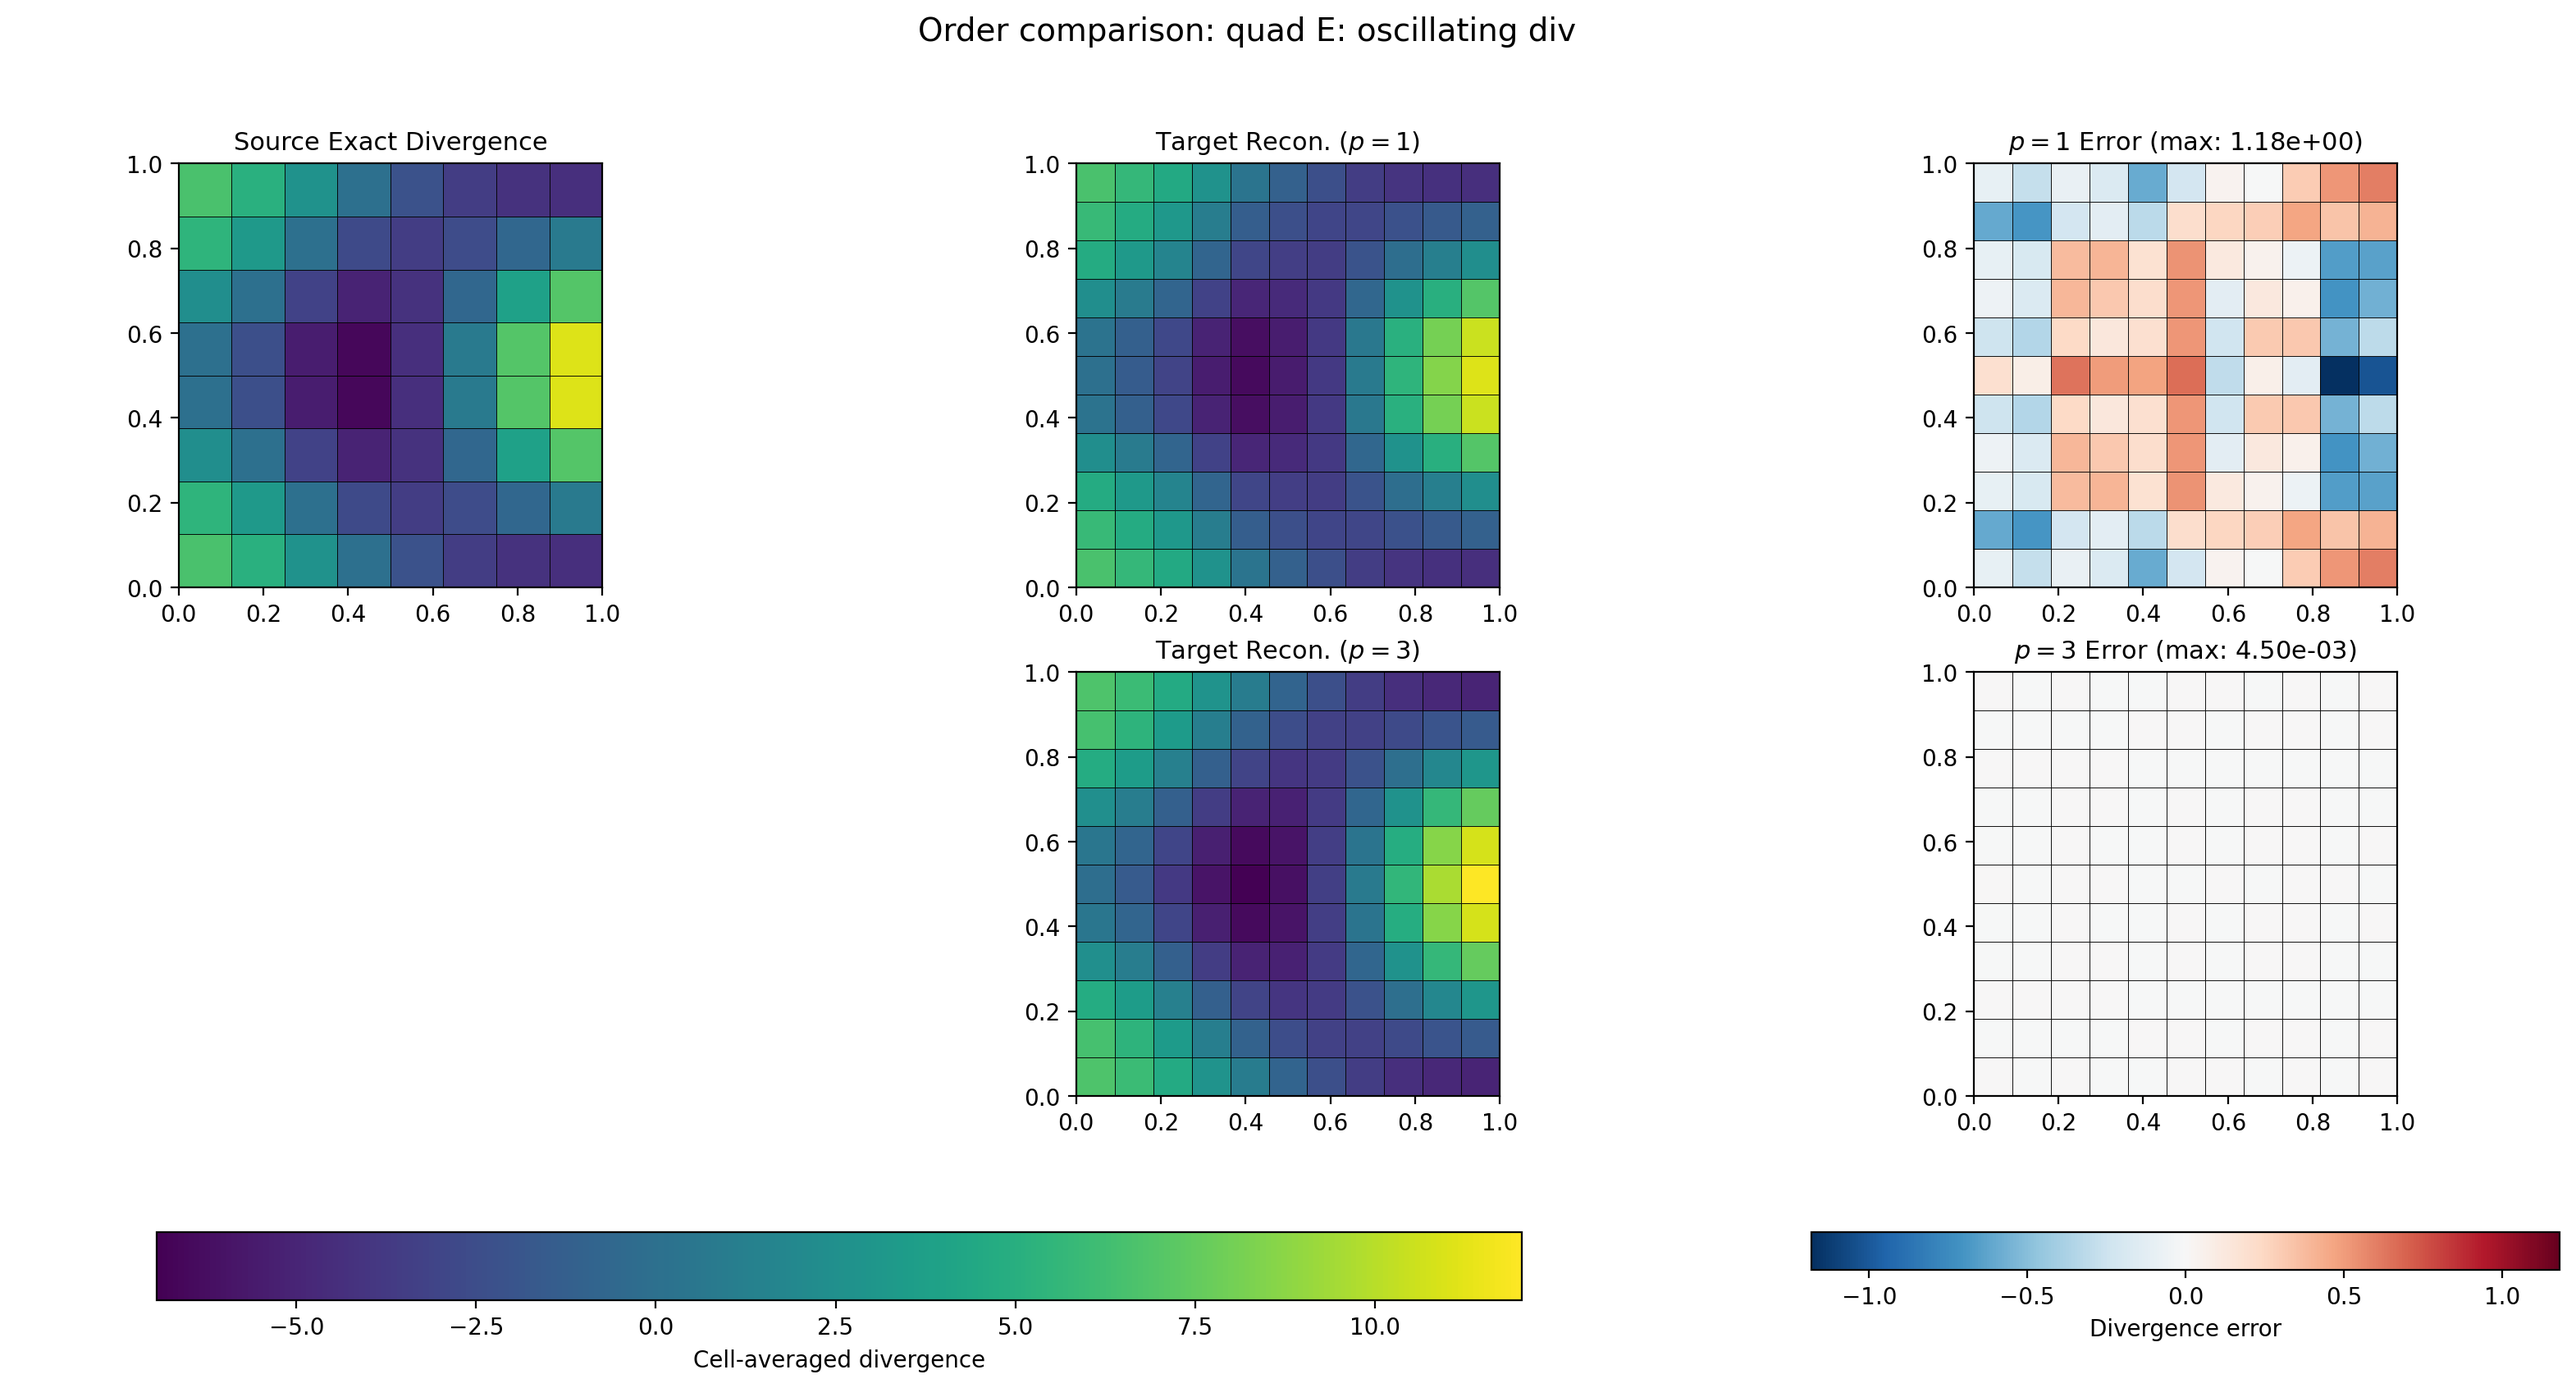
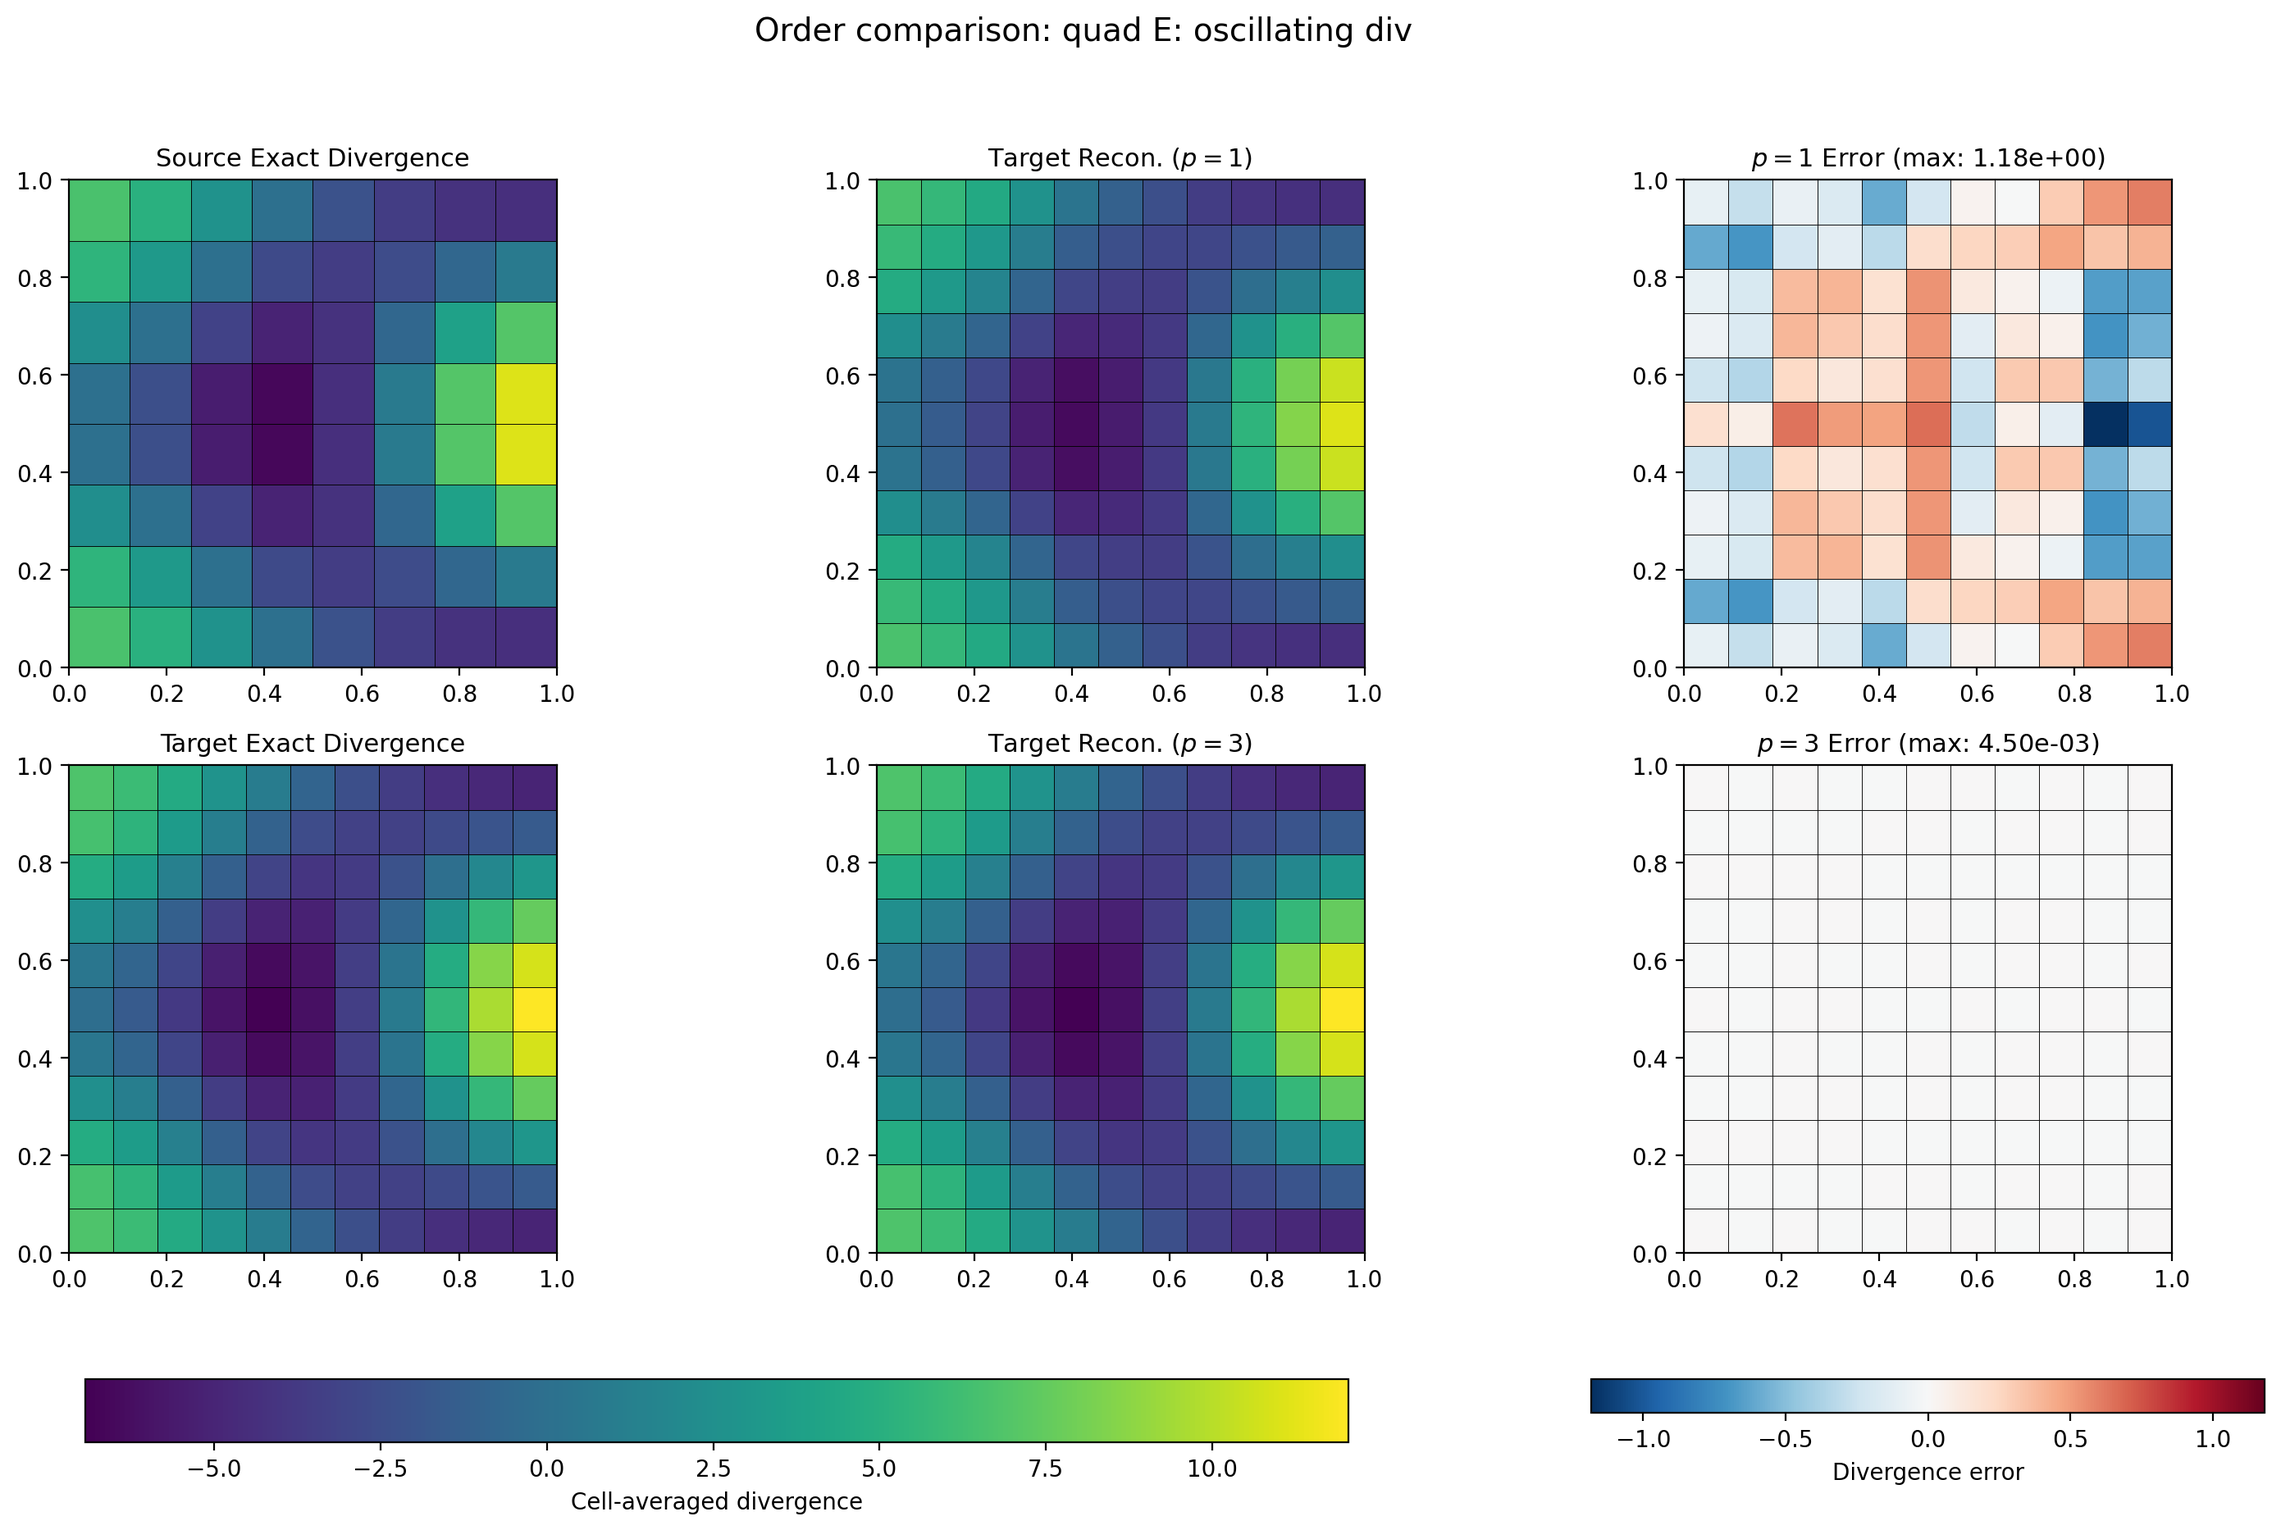
Restore target-exact panel in order comparison, keep colorbars outside
Revert to 2×3 layout with target exact divergence in bottom-left.
Colorbars remain below the figure (horizontal, outside panel bounds).

diff --git a/scripts/visualize.py b/scripts/visualize.py
@@ -215,7 +215,8 @@ def render_edge_jump(source_file: Path, output_dir: Path):
 
 
 def render_order_comparison(source_file: Path, output_dir: Path):
-    """Render 5-panel comparison: source exact, p=1 recon, p=1 error, p=3 recon, p=3 error."""
+    """Render 2x3 comparison: source exact / p=1 recon / p=1 error,
+       target exact / p=3 recon / p=3 error."""
     base_name = source_file.name.replace("_source.txt", "")
     target_p1_file = source_file.with_name(base_name + "_target_p1.txt")
     target_p3_file = source_file.with_name(base_name + "_target_p3.txt")
@@ -230,31 +231,23 @@ def render_order_comparison(source_file: Path, output_dir: Path):
     p1_error = tgt_p1_vals - tgt_exact_vals
     p3_error = tgt_p3_vals - tgt_exact_vals
 
-    fig = plt.figure(figsize=(20, 9))
-    # Layout: top row has 3 panels (source, p=1 recon, p=1 error)
-    #         bottom row has 2 panels (p=3 recon, p=3 error) centered
-    ax_src  = fig.add_subplot(2, 3, 1)
-    ax_p1   = fig.add_subplot(2, 3, 2)
-    ax_p1e  = fig.add_subplot(2, 3, 3)
-    # Bottom row: positions 4-6, use 5 and 6 to right-align with p=1 row
-    ax_p3   = fig.add_subplot(2, 3, 5)
-    ax_p3e  = fig.add_subplot(2, 3, 6)
-    # Hide unused bottom-left
-    ax_blank = fig.add_subplot(2, 3, 4)
-    ax_blank.axis("off")
+    fig, axes = plt.subplots(2, 3, figsize=(18, 10))
 
     vmin = min(src_vals.min(), tgt_p1_vals.min(), tgt_p3_vals.min(), tgt_exact_vals.min())
     vmax = max(src_vals.max(), tgt_p1_vals.max(), tgt_p3_vals.max(), tgt_exact_vals.max())
     err_max = max(np.abs(p1_error).max(), np.abs(p3_error).max(), 1.0e-16)
 
     field_panels = [
-        (ax_src, src_polys, src_vals, "Source Exact Divergence"),
-        (ax_p1, tgt_p1_polys, tgt_p1_vals, r"Target Recon. ($p=1$)"),
-        (ax_p3, tgt_p3_polys, tgt_p3_vals, r"Target Recon. ($p=3$)"),
+        (axes[0, 0], src_polys, src_vals, "Source Exact Divergence"),
+        (axes[0, 1], tgt_p1_polys, tgt_p1_vals, r"Target Recon. ($p=1$)"),
+        (axes[1, 0], tgt_p1_polys, tgt_exact_vals, "Target Exact Divergence"),
+        (axes[1, 1], tgt_p3_polys, tgt_p3_vals, r"Target Recon. ($p=3$)"),
     ]
     error_panels = [
-        (ax_p1e, tgt_p1_polys, p1_error, f"$p=1$ Error (max: {np.abs(p1_error).max():.2e})"),
-        (ax_p3e, tgt_p3_polys, p3_error, f"$p=3$ Error (max: {np.abs(p3_error).max():.2e})"),
+        (axes[0, 2], tgt_p1_polys, p1_error,
+         f"$p=1$ Error (max: {np.abs(p1_error).max():.2e})"),
+        (axes[1, 2], tgt_p3_polys, p3_error,
+         f"$p=3$ Error (max: {np.abs(p3_error).max():.2e})"),
     ]
 
     value_mappable = None
@@ -279,14 +272,14 @@ def render_order_comparison(source_file: Path, output_dir: Path):
         ax.set_title(title, fontsize=11)
         error_mappable = coll
 
-    # Colorbars outside the plot bounding boxes
+    # Colorbars below the figure, outside panel bounding boxes
     if value_mappable is not None:
-        fig.colorbar(value_mappable, ax=[ax_src, ax_p1, ax_p3],
-                     orientation="horizontal", fraction=0.06, pad=0.12,
+        fig.colorbar(value_mappable, ax=axes[:, :2].ravel().tolist(),
+                     orientation="horizontal", fraction=0.05, pad=0.10,
                      label="Cell-averaged divergence")
     if error_mappable is not None:
-        fig.colorbar(error_mappable, ax=[ax_p1e, ax_p3e],
-                     orientation="horizontal", fraction=0.06, pad=0.12,
+        fig.colorbar(error_mappable, ax=axes[:, 2].ravel().tolist(),
+                     orientation="horizontal", fraction=0.05, pad=0.10,
                      label="Divergence error")
 
     display_name = base_name.replace("vis_order_compare_", "").replace("_", " ")

diff --git a/docs/mimetic_voronoi_report.tex b/docs/mimetic_voronoi_report.tex
@@ -1123,10 +1123,10 @@ Figure~\ref{fig:order-compare-voronoi} shows the same field on a
   \centering
   \includegraphics[width=\textwidth]{vis_order_compare_quad_E__oscillating_div_order_compare.png}
   \caption{Quad-to-quad order comparison for the oscillating-divergence field
-  in Eq.~\eqref{eq:oscillating-div-field}.  Top: source exact divergence,
-  \(p=1\) reconstruction, and \(p=1\) error.  Bottom: \(p=3\) reconstruction
-  and \(p=3\) error.  The \(p=3\) maximum error is \(\sim260\times\) smaller
-  than \(p=1\).}
+  in Eq.~\eqref{eq:oscillating-div-field}.  Top row: source exact divergence,
+  \(p=1\) reconstruction, and \(p=1\) error.  Bottom row: target exact
+  divergence, \(p=3\) reconstruction, and \(p=3\) error.  The \(p=3\) maximum
+  error is \(\sim260\times\) smaller than \(p=1\).}
   \label{fig:order-compare-quad}
 \end{figure}
 
